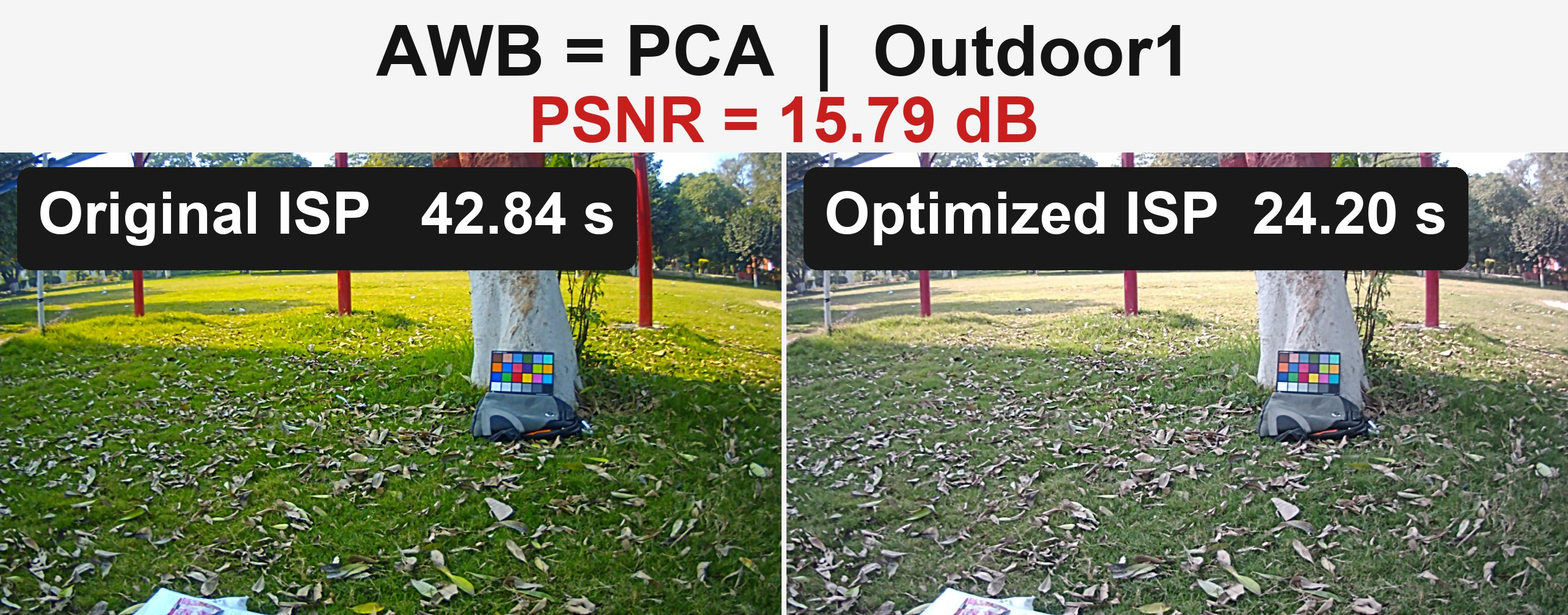
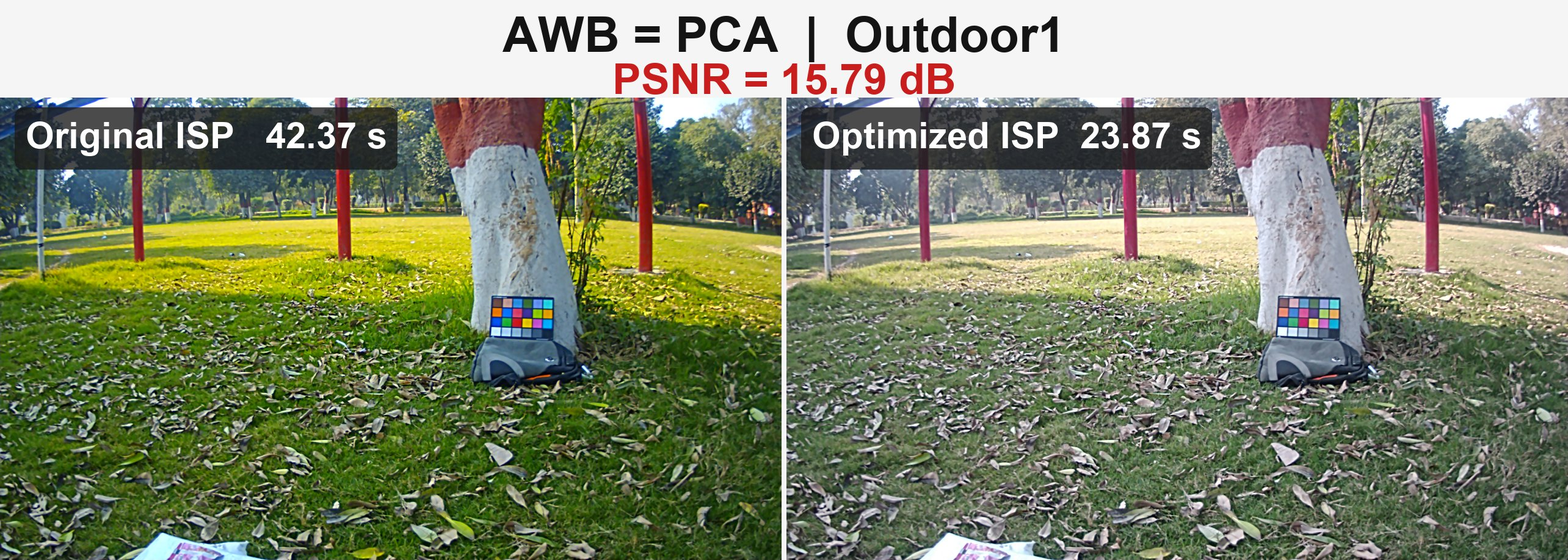
Redesign comparison labels: smaller, unobtrusive, semi-transparent
- A/B: shrink band to 160px, title/PSNR/badge fonts to 80/70/60
  (was 250px band, 116/104/96) so labels read at ~20-30px effective
  without covering the image content
- CSE ablation: shrink band to 170px, fonts to 80/56/58/52; place the
  time and DeltaE badges side-by-side instead of stacked, both
  semi-transparent (alpha 200) so the underlying image shows through
- README + results/README wording updated to match

diff --git a/scripts/make_cse_cross_test.py b/scripts/make_cse_cross_test.py
@@ -128,18 +128,25 @@ def baseline_path(tag, name):
         raise RuntimeError("baseline missing: %s" % p)
     return p
 
-def draw_badge(dr, x, y, text, font, pad_h=30, pad_v=20, fill=(25, 25, 25)):
+def draw_badge(img, x, y, text, font, pad_h=18, pad_v=12, fill=(25, 25, 25), alpha=200):
+    """在 RGBA 图 img 上叠加半透明圆角徽标：白字实心、背景半透明可透出画面。"""
+    dr = ImageDraw.Draw(img)
     lw = dr.textlength(text, font=font)
-    dr.rounded_rectangle([x, y, x + lw + pad_h * 2, y + int(font.size * 1.3) + pad_v * 2],
-                         radius=20, fill=fill)
-    dr.text((x + pad_h, y + pad_v), text, fill=(255, 255, 255), font=font)
+    bw = int(lw) + pad_h * 2
+    bh = int(font.size * 1.3) + pad_v * 2
+    overlay = Image.new("RGBA", (bw, bh), (0, 0, 0, 0))
+    od = ImageDraw.Draw(overlay)
+    od.rounded_rectangle([0, 0, bw, bh], radius=14, fill=fill + (alpha,))
+    od.text((pad_h, pad_v), text, fill=(255, 255, 255, 255), font=font)
+    img.alpha_composite(overlay, (int(x), int(y)))
 
 def make_matrix(name, panels, out_path, target_w=2568):
     """panels: [(img, label), ...] 顺序 TL, TR, BL, BR。
 
     ΔE 先在原尺寸面板上计算（网格间距 218/207 按 2592x1536 标定），再整体等比
-    缩小画布到约 target_w；文字按 GitHub 内联显示宽度(~950px)反算放大，保证
-    内联显示时可读。时间徽标在面板左上角，红色 ΔE 徽标在其正下方。"""
+    缩小画布到约 target_w；文字按 GitHub 内联显示宽度(~950px)反算到约 20-30px
+    有效字号。时间徽标与红色 ΔE 徽标在面板左上角**并排**（不叠放），背景半透明，
+    避免遮挡图像内容。"""
     h, w = panels[0][0].shape[:2]
     # 1) 渲染域 ΔE（原尺寸，TL 面板定位网格，其余面板同锚点采样）
     tl_rgb = cv2.cvtColor(panels[0][0], cv2.COLOR_BGR2RGB)
@@ -153,7 +160,7 @@ def make_matrix(name, panels, out_path, target_w=2568):
     scale = (target_w - gap) / (2.0 * w)
     nw, nh = int(w * scale), int(h * scale)
     panels = [(cv2.resize(p, (nw, nh), interpolation=cv2.INTER_AREA), l) for p, l in panels]
-    band = 220
+    band = 170
     cw = nw * 2 + gap
     ch = band + nh * 2 + gap
     canvas = np.full((ch, cw, 3), 245, dtype=np.uint8)
@@ -161,24 +168,28 @@ def make_matrix(name, panels, out_path, target_w=2568):
     for (panel, _label), (px, py) in zip(panels, pos):
         canvas[py:py + nh, px:px + nw] = panel
     # 3) 叠加标注
-    img = Image.fromarray(cv2.cvtColor(canvas, cv2.COLOR_BGR2RGB))
+    img = Image.fromarray(cv2.cvtColor(canvas, cv2.COLOR_BGR2RGB)).convert("RGBA")
     dr = ImageDraw.Draw(img)
-    f_title = ImageFont.truetype(FONT, 104)
-    f_sub = ImageFont.truetype(FONT, 68)
-    f_badge = ImageFont.truetype(FONT, 84)
+    f_title = ImageFont.truetype(FONT, 80)
+    f_sub = ImageFont.truetype(FONT, 56)
+    f_badge = ImageFont.truetype(FONT, 58)
+    f_de = ImageFont.truetype(FONT, 52)
     title = "AWB = PCA  |  %s  |  CCM x CSE saturation" % name
     tw = dr.textlength(title, font=f_title)
-    dr.text(((cw - tw) / 2, 16), title, fill=(20, 20, 20), font=f_title)
+    dr.text(((cw - tw) / 2, 12), title, fill=(20, 20, 20, 255), font=f_title)
     # 列头：saturation 1.5 | 1.0（行信息由每个面板的徽标承载）
     for cx, t in ((nw / 2, "CSE sat 1.5"), (nw + gap + nw / 2, "CSE sat 1.0")):
         wt = dr.textlength(t, font=f_sub)
-        dr.text((cx - wt / 2, 128), t, fill=(90, 90, 90), font=f_sub)
-    bh = int(f_badge.size * 1.3) + 14 * 2          # 徽标高度
+        dr.text((cx - wt / 2, 98), t, fill=(90, 90, 90, 255), font=f_sub)
+    # 时间徽标与 ΔE 徽标并排（同一行，不上下叠放）
+    pad_h = 18
     for (panel, label), (px, py) in zip(panels, pos):
-        draw_badge(dr, px + 20, py + 20, label, f_badge, pad_h=24, pad_v=14)
+        draw_badge(img, px + 20, py + 16, label, f_badge, pad_h=pad_h)
     for (panel, label), (px, py), de in zip(panels, pos, des):
-        draw_badge(dr, px + 20, py + 20 + bh + 10, "ΔE mean %4.1f" % de, f_badge,
-                   pad_h=24, pad_v=14, fill=(180, 30, 30))
+        twb = dr.textlength(label, font=f_badge)
+        draw_badge(img, px + 20 + int(twb) + 2 * pad_h + 8, py + 16,
+                   "ΔE mean %4.1f" % de, f_de, pad_h=pad_h, fill=(180, 30, 30))
+    img = img.convert("RGB")
     img.save(out_path)
     print("  保存矩阵图:", out_path)
 

diff --git a/scripts/make_ab_render3a_pca.py b/scripts/make_ab_render3a_pca.py
@@ -83,40 +83,47 @@ def psnr(a, b):
     mse = np.mean((a - b) ** 2)
     return float("inf") if mse == 0 else 10 * np.log10(255.0 ** 2 / mse)
 
-def draw_badge(dr, x, y, text, font, pad_h=34, pad_v=22):
+def draw_badge(img, x, y, text, font, pad_h=18, pad_v=12, fill=(25, 25, 25), alpha=200):
+    """在 RGBA 图 img 上叠加半透明圆角徽标：白字实心、背景半透明可透出画面。"""
+    dr = ImageDraw.Draw(img)
     lw = dr.textlength(text, font=font)
-    dr.rounded_rectangle([x, y, x + lw + pad_h * 2, y + int(font.size * 1.3) + pad_v * 2],
-                         radius=22, fill=(25, 25, 25))
-    dr.text((x + pad_h, y + pad_v), text, fill=(255, 255, 255), font=font)
+    bw = int(lw) + pad_h * 2
+    bh = int(font.size * 1.3) + pad_v * 2
+    overlay = Image.new("RGBA", (bw, bh), (0, 0, 0, 0))
+    od = ImageDraw.Draw(overlay)
+    od.rounded_rectangle([0, 0, bw, bh], radius=14, fill=fill + (alpha,))
+    od.text((pad_h, pad_v), text, fill=(255, 255, 255, 255), font=font)
+    img.alpha_composite(overlay, (int(x), int(y)))
 
 def make_cmp(name, left, right, tE, tD, psnr_v, out_path, target_w=2568):
     """左=原ISP(E)，右=优化ISP(D)；顶栏标题+居中PSNR；两图左上角各标处理时间。
 
     输出画布宽度约 target_w：面板先等比缩小，文字按 GitHub 内联显示宽度(~950px)
-    反算放大，保证内联显示时标注可读(~35-40px)。"""
+    反算到约 20-30px 有效字号（可读但不挡画面），徽标半透明。"""
     h, w = left.shape[:2]
     gap = 8
     scale = (target_w - gap) / (2.0 * w)
     nw, nh = int(w * scale), int(h * scale)
     left = cv2.resize(left, (nw, nh), interpolation=cv2.INTER_AREA)
     right = cv2.resize(right, (nw, nh), interpolation=cv2.INTER_AREA)
-    band = 250
+    band = 160
     canvas = np.full((band + nh, nw * 2 + gap, 3), 245, dtype=np.uint8)
     canvas[band:, :nw] = left
     canvas[band:, nw + gap:] = right
-    img = Image.fromarray(cv2.cvtColor(canvas, cv2.COLOR_BGR2RGB))
+    img = Image.fromarray(cv2.cvtColor(canvas, cv2.COLOR_BGR2RGB)).convert("RGBA")
     dr = ImageDraw.Draw(img)
-    f_title = ImageFont.truetype(FONT, 116)
-    f_psnr = ImageFont.truetype(FONT, 104)
-    f_badge = ImageFont.truetype(FONT, 96)
+    f_title = ImageFont.truetype(FONT, 80)
+    f_psnr = ImageFont.truetype(FONT, 70)
+    f_badge = ImageFont.truetype(FONT, 60)
     title = "AWB = PCA  |  %s" % name
     tw = dr.textlength(title, font=f_title)
-    dr.text(((nw * 2 + gap - tw) / 2, 18), title, fill=(20, 20, 20), font=f_title)
+    dr.text(((nw * 2 + gap - tw) / 2, 12), title, fill=(20, 20, 20, 255), font=f_title)
     ptxt = "PSNR = ∞" if psnr_v == float("inf") else "PSNR = %.2f dB" % psnr_v
     pw = dr.textlength(ptxt, font=f_psnr)
-    dr.text(((nw * 2 + gap - pw) / 2, 138), ptxt, fill=(200, 30, 30), font=f_psnr)
-    draw_badge(dr, 28, band + 24, "Original ISP   %.2f s" % tE, f_badge)
-    draw_badge(dr, nw + gap + 28, band + 24, "Optimized ISP  %.2f s" % tD, f_badge)
+    dr.text(((nw * 2 + gap - pw) / 2, 90), ptxt, fill=(200, 30, 30, 255), font=f_psnr)
+    draw_badge(img, 24, band + 16, "Original ISP   %.2f s" % tE, f_badge)
+    draw_badge(img, nw + gap + 24, band + 16, "Optimized ISP  %.2f s" % tD, f_badge)
+    img = img.convert("RGB")
     img.save(out_path)
     print("  保存对比图:", out_path)
 

diff --git a/README.md b/README.md
@@ -189,8 +189,9 @@ python scripts/make_cse_cross_test.py    # CCM × CSE 2×2 ablation
 
 Produced by running each pipeline independently on the same RAW (left: original
 ISP, right: optimized ISP; top-center PSNR of the optimized output vs the
-original). The composites are rendered at 2568 px wide with labels sized so they
-stay readable when GitHub scales them to the container width.
+original). The composites are rendered at 2568 px wide with compact semi-transparent
+labels that stay readable when GitHub scales them to the container width,
+without hiding the image content.
 
 **ColorChecker** — the CCM recalibration fixes the oversaturated/magenta reds:
 

diff --git a/results/README.md b/results/README.md
@@ -1,8 +1,9 @@
 # Results — rendered comparisons
 
 Rendered comparisons (JPEG, 2568 px wide), produced by running each pipeline
-independently on the same RAW (2592×1536, 12-bit RGGB). Labels are sized so they
-remain readable when GitHub scales the images to the container width.
+independently on the same RAW (2592×1536, 12-bit RGGB). Labels are compact and
+semi-transparent: readable when GitHub scales the images to the container width,
+without obscuring the image content.
 
 | Folder | Contents | What to look for |
 |---|---|---|
